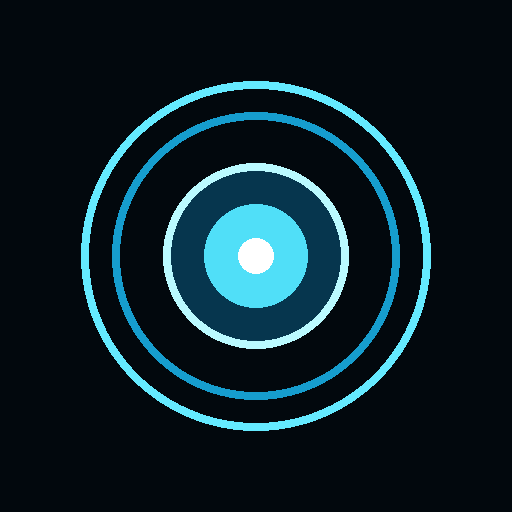
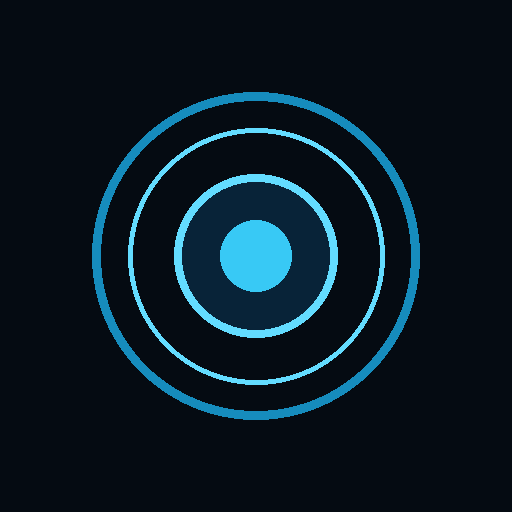
Add files via upload

Changed region(s): [[0.1562, 0.1562, 0.8438, 0.8438], [0.3125, 0.3125, 0.6875, 0.6875], [0.4688, 0.4688, 0.5312, 0.5312]]

diff --git a/index.html b/index.html
@@ -1,66 +1,13 @@
-<!doctype html>
-<html lang="de">
-<head>
-<meta charset="utf-8">
-<meta name="viewport" content="width=device-width,initial-scale=1,viewport-fit=cover">
-<meta name="theme-color" content="#02080d">
-<meta name="description" content="A.L.F.R.E.D. — persönliches futuristisches Assistenz-Interface">
-<link rel="manifest" href="manifest.webmanifest">
-<link rel="icon" href="icon.svg" type="image/svg+xml">
-<title>A.L.F.R.E.D.</title>
-<style>
-:root{--cyan:#65eaff;--blue:#169dce;--dim:#286477;--bg:#02080d;--panel:rgba(5,22,31,.82);--line:rgba(101,234,255,.25);--muted:#74a8b6}
-*{box-sizing:border-box}html{background:var(--bg)}body{margin:0;background:radial-gradient(ellipse at 50% 42%,#092431 0,#041019 36%,#02070b 75%);color:#d9faff;font-family:Inter,system-ui,Segoe UI,sans-serif;min-height:100vh;min-height:100dvh;overflow-x:hidden;padding-bottom:env(safe-area-inset-bottom)}
-body:before{content:"";position:fixed;inset:0;pointer-events:none;opacity:.15;background-image:linear-gradient(rgba(101,234,255,.12) 1px,transparent 1px),linear-gradient(90deg,rgba(101,234,255,.12) 1px,transparent 1px);background-size:36px 36px;mask-image:linear-gradient(transparent,#000 18%,#000 85%,transparent)}
-header{display:flex;justify-content:space-between;align-items:center;padding:calc(17px + env(safe-area-inset-top)) 18px 8px;letter-spacing:.2em;font-size:10px;color:var(--muted);position:relative}.brand{font-size:17px;color:var(--cyan);font-weight:750;letter-spacing:.25em;text-shadow:0 0 18px #1ab7d9}.status{display:flex;align-items:center;gap:8px}.dot{width:7px;height:7px;border-radius:50%;background:#58ffc2;box-shadow:0 0 12px #58ffc2}
-main{max-width:900px;margin:auto;padding:8px 15px 28px;position:relative}.hero{text-align:center}.eyebrow{font-size:9px;letter-spacing:.35em;color:#7ebdcb;margin:8px 0 0}.clock{font-size:clamp(34px,9vw,50px);font-weight:200;letter-spacing:.1em;margin:4px 0 0;color:#e2fbff}.date{font-size:10px;letter-spacing:.18em;color:var(--muted);text-transform:uppercase}
-.core-wrap{height:275px;display:grid;place-items:center;position:relative;margin:0 auto;max-width:400px}.core{width:205px;height:205px;border-radius:50%;position:relative;display:grid;place-items:center;filter:drop-shadow(0 0 25px rgba(45,213,255,.5));cursor:pointer;outline:none}.core:before{content:"";position:absolute;inset:0;border-radius:50%;border:1px solid rgba(101,234,255,.55);box-shadow:inset 0 0 30px rgba(26,183,217,.12),0 0 28px rgba(26,183,217,.18)}.core:after{content:"";position:absolute;inset:14px;border-radius:50%;border:2px dashed rgba(101,234,255,.65);animation:spin 22s linear infinite}.ring{position:absolute;border-radius:50%;border:1px solid rgba(101,234,255,.36)}.r1{inset:-13px;border-left-color:transparent;border-right-color:transparent;animation:spin 12s linear infinite}.r2{inset:-29px;border-top:2px solid var(--cyan);border-bottom:2px solid transparent;animation:spin 17s linear infinite reverse}.r3{inset:-42px;border:1px dotted rgba(101,234,255,.35);animation:spin 35s linear infinite}.arc{width:125px;height:125px;border-radius:50%;background:radial-gradient(circle,#bafaff 0 3%,#50dff8 9%,#0a789e 27%,#06364e 49%,rgba(2,15,25,.3) 70%);box-shadow:0 0 20px #37d8ff,0 0 55px rgba(25,176,224,.6),inset 0 0 28px #b4f9ff;position:relative;animation:pulse 3s ease-in-out infinite}.arc:before{content:"";position:absolute;inset:22px;border:2px solid rgba(196,250,255,.8);border-radius:50%;border-left-color:transparent;transform:rotate(35deg)}.arc:after{content:"";position:absolute;inset:39px;border:1px solid rgba(190,250,255,.7);border-radius:50%;border-bottom-color:transparent;transform:rotate(-30deg)}.core-label{position:absolute;bottom:-61px;text-align:center;font-size:9px;letter-spacing:.35em;color:var(--cyan);text-shadow:0 0 10px #22bfe5}
-@keyframes spin{to{transform:rotate(360deg)}}@keyframes pulse{0%,100%{transform:scale(.96);filter:brightness(.9)}50%{transform:scale(1.04);filter:brightness(1.3)}}
-.grid{display:grid;grid-template-columns:repeat(3,1fr);gap:9px;margin-top:5px}.panel{border:1px solid var(--line);background:linear-gradient(145deg,rgba(9,35,47,.72),rgba(2,12,19,.8));padding:12px;border-radius:7px;min-height:76px;box-shadow:inset 0 0 22px rgba(40,180,220,.035)}.panel small{display:block;font-size:8px;letter-spacing:.2em;color:var(--muted);text-transform:uppercase}.value{font-size:15px;margin-top:8px;color:#d9fbff}.sub{font-size:9px;color:#7db2c0;margin-top:3px}
-.controls{display:flex;justify-content:center;gap:8px;flex-wrap:wrap;margin:15px 0}.btn{background:rgba(8,34,47,.85);color:var(--cyan);border:1px solid rgba(101,234,255,.45);padding:11px 13px;border-radius:4px;letter-spacing:.1em;font-size:9px;text-transform:uppercase;cursor:pointer}.btn:active{background:#12465a}.btn.primary{background:rgba(24,144,178,.22);box-shadow:0 0 18px rgba(39,196,235,.12)}
-.chat{border:1px solid var(--line);border-radius:7px;background:var(--panel);padding:13px;margin-top:11px}.chat-head{display:flex;justify-content:space-between;gap:8px;font-size:9px;letter-spacing:.15em;color:var(--cyan);margin-bottom:9px}.messages{height:112px;overflow:auto;font-size:11px;color:#b6dce5;line-height:1.55}.msg{margin:5px 0}.inputrow{display:flex;gap:7px;margin-top:9px}.inputrow input{flex:1;min-width:0;background:#020b11;border:1px solid var(--line);border-radius:4px;color:#e3fbff;padding:12px;font-size:12px;outline:none}.hint{text-align:center;color:#537f8b;font-size:8px;line-height:1.6;margin:13px 5px}.boot{position:fixed;inset:0;background:#01060a;z-index:5;display:grid;place-items:center;transition:opacity .7s ease}.boot.hide{opacity:0;pointer-events:none}.boot-inner{text-align:center;color:var(--cyan);font:10px/2 monospace;letter-spacing:.2em}.bootbar{width:210px;height:2px;background:#12313b;margin:15px auto;overflow:hidden}.bootbar i{display:block;height:100%;width:0;background:var(--cyan);box-shadow:0 0 12px var(--cyan);animation:load 2s ease forwards}@keyframes load{to{width:100%}}
-.install{display:none}.install.show{display:inline-block}
-@media(max-width:520px){.brand{font-size:15px}.core-wrap{height:258px}.grid{grid-template-columns:repeat(2,1fr)}.panel:last-child{grid-column:span 2}.value{font-size:14px}}
-@media(min-width:700px){main{padding-top:18px}.core-wrap{height:300px}.grid{gap:12px}.panel{padding:16px}}
-</style>
-</head>
-<body>
-<div class="boot" id="boot"><div class="boot-inner"><div style="font-size:21px;font-weight:bold">A.L.F.R.E.D.</div><div>INITIALISIERE SYSTEMKERN</div><div class="bootbar"><i></i></div><div id="bootline">SICHERE VERBINDUNG WIRD HERGESTELLT...</div></div></div>
-<header><div class="brand">A.L.F.R.E.D.</div><div class="status"><span class="dot"></span><span id="systemstatus">SYSTEM ONLINE</span></div></header>
-<main>
-<section class="hero"><div class="eyebrow">PERSONAL ASSISTANT INTERFACE</div><div class="clock" id="clock">--:--:--</div><div class="date" id="date">DATUM WIRD GELADEN</div>
-<div class="core-wrap"><div class="core" id="core" role="button" tabindex="0" aria-label="Systemkern aktivieren"><div class="ring r1"></div><div class="ring r2"></div><div class="ring r3"></div><div class="arc"></div><div class="core-label" id="corelabel">KERN AKTIV</div></div></div></section>
-<div class="grid">
-<div class="panel"><small>Systemstatus</small><div class="value">ONLINE</div><div class="sub">Lokale Module bereit</div></div>
-<div class="panel"><small>Verbindung</small><div class="value" id="network">PRÜFE...</div><div class="sub">Netzwerkstatus</div></div>
-<div class="panel"><small>Batterie</small><div class="value" id="battery">—</div><div class="sub" id="charging">Gerätestatus</div></div>
-<div class="panel"><small>Wetter</small><div class="value" id="weather">—</div><div class="sub" id="weatherdetail">Standortfreigabe nötig</div></div>
-<div class="panel"><small>Sprachmodul</small><div class="value" id="voice">BEREIT</div><div class="sub">Sprachsteuerung</div></div>
-<div class="panel"><small>Systemzeit</small><div class="value" id="timezone">—</div><div class="sub">Lokale Zeitzone</div></div>
-</div>
-<div class="controls"><button class="btn primary" id="voicebtn">◉ Sprachsteuerung</button><button class="btn" id="soundbtn">♫ Sound: AUS</button><button class="btn" id="weatherbtn">⌖ Wetter laden</button><button class="btn install" id="installbtn">＋ App installieren</button></div>
-<section class="chat"><div class="chat-head"><span>ALFRED // KOMMUNIKATION</span><span>DEMO-KI</span></div><div class="messages" id="messages" aria-live="polite"><div class="msg">A.L.F.R.E.D.: Guten Tag. Meine Systeme sind einsatzbereit.</div><div class="msg">A.L.F.R.E.D.: Ich kann Uhrzeit, Datum und einfache Befehle offline beantworten.</div></div><div class="inputrow"><input id="chatinput" autocomplete="off" placeholder="Nachricht an A.L.F.R.E.D. ..."><button class="btn" id="send">SENDEN</button></div></section>
-<div class="hint">A.L.F.R.E.D. // BUILD 0.2 · OFFLINE-FÄHIGE OBERFLÄCHE<br>KI-CHAT IST NOCH NICHT MIT EINEM ONLINE-KI-MODELL VERBUNDEN.</div>
-</main>
-<script>
-const $=id=>document.getElementById(id);
-function tick(){const d=new Date();$('clock').textContent=d.toLocaleTimeString('de-DE');$('date').textContent=d.toLocaleDateString('de-DE',{weekday:'long',day:'2-digit',month:'long',year:'numeric'}).toUpperCase();$('timezone').textContent=(Intl.DateTimeFormat().resolvedOptions().timeZone||'LOKAL').split('/').pop().replaceAll('_',' ')}
-tick();setInterval(tick,1000);
-setTimeout(()=>{$('bootline').textContent='SYSTEMKERN ONLINE';setTimeout(()=>$('boot').classList.add('hide'),400)},2050);
-$('network').textContent=navigator.onLine?'ONLINE':'OFFLINE';addEventListener('online',()=>{$('network').textContent='ONLINE';$('systemstatus').textContent='SYSTEM ONLINE'});addEventListener('offline',()=>{$('network').textContent='OFFLINE';$('systemstatus').textContent='OFFLINE-MODUS'});
-if('getBattery'in navigator){navigator.getBattery().then(b=>{function upd(){$('battery').textContent=Math.round(b.level*100)+'%';$('charging').textContent=b.charging?'WIRD GELADEN':'AKKUBETRIEB'}upd();b.addEventListener('levelchange',upd);b.addEventListener('chargingchange',upd)}).catch(()=>{$('battery').textContent='NICHT VERFÜGBAR'})}else{$('battery').textContent='N/V'}
-let audioOn=false,ctx;
-function beep(freq=520,dur=.12){if(!audioOn)return;try{ctx=ctx||new(window.AudioContext||window.webkitAudioContext)();let o=ctx.createOscillator(),g=ctx.createGain();o.type='sine';o.frequency.value=freq;g.gain.setValueAtTime(.04,ctx.currentTime);g.gain.exponentialRampToValueAtTime(.001,ctx.currentTime+dur);o.connect(g);g.connect(ctx.destination);o.start();o.stop(ctx.currentTime+dur)}catch(e){}}
-$('soundbtn').onclick=()=>{audioOn=!audioOn;$('soundbtn').textContent='♫ Sound: '+(audioOn?'AN':'AUS');if(audioOn){beep(660,.18);setTimeout(()=>beep(880,.2),140)}};
-function coreAction(){beep(740,.2);$('corelabel').textContent='KERN SCANNT';setTimeout(()=>$('corelabel').textContent='KERN AKTIV',1200)}$('core').onclick=coreAction;$('core').onkeydown=e=>{if(e.key==='Enter'||e.key===' '){e.preventDefault();coreAction()}};
-async function loadWeather(){if(!navigator.geolocation){$('weatherdetail').textContent='Standort nicht verfügbar';return}$('weather').textContent='SUCHE...';navigator.geolocation.getCurrentPosition(async p=>{try{let u=`https://api.open-meteo.com/v1/forecast?latitude=${p.coords.latitude}&longitude=${p.coords.longitude}&current=temperature_2m,weather_code&timezone=auto`;let r=await fetch(u),j=await r.json();$('weather').textContent=Math.round(j.current.temperature_2m)+'°C';$('weatherdetail').textContent='Aktuelle Temperatur · Standort lokal'}catch(e){$('weather').textContent='FEHLER';$('weatherdetail').textContent='Wetterdienst nicht erreichbar'}},()=>{$('weather').textContent='—';$('weatherdetail').textContent='Standortfreigabe abgelehnt'},{timeout:10000})}$('weatherbtn').onclick=loadWeather;
-const SR=window.SpeechRecognition||window.webkitSpeechRecognition;
-$('voicebtn').onclick=()=>{if(!SR){$('voice').textContent='NICHT VERFÜGBAR';say('Sprachsteuerung wird von diesem Browser nicht unterstützt.');return}let rec=new SR();rec.lang='de-DE';rec.interimResults=false;$('voice').textContent='HÖRE ZU...';beep(620,.1);rec.onresult=e=>{$('chatinput').value=e.results[0][0].transcript;$('voice').textContent='BEREIT';sendMessage()};rec.onerror=()=>{$('voice').textContent='BEREIT'};rec.onend=()=>{if($('voice').textContent==='HÖRE ZU...')$('voice').textContent='BEREIT'};try{rec.start()}catch(e){$('voice').textContent='BEREIT'}};
-function say(t){if('speechSynthesis'in window){let u=new SpeechSynthesisUtterance(t);u.lang='de-DE';speechSynthesis.speak(u)}}
-function escapeHtml(s){return s.replace(/[&<>"']/g,c=>({'&':'&amp;','<':'&lt;','>':'&gt;','"':'&quot;',"'":'&#39;'}[c]))}
-function sendMessage(){let t=$('chatinput').value.trim();if(!t)return;let m=$('messages');m.innerHTML+=`<div class="msg">DU: ${escapeHtml(t)}</div>`;let l=t.toLowerCase(),reply='Befehl empfangen. Für freie intelligente Gespräche muss das Online-KI-Modul noch eingerichtet werden.';if(/hallo|guten tag|hi|hey/.test(l))reply='Guten Tag. A.L.F.R.E.D. ist bereit.';else if(/uhrzeit|wie spät/.test(l))reply='Es ist '+new Date().toLocaleTimeString('de-DE')+'.';else if(/datum|welcher tag/.test(l))reply='Heute ist '+new Date().toLocaleDateString('de-DE')+'.';else if(/status|system/.test(l))reply='Alle lokalen Oberflächenmodule sind einsatzbereit. Netzwerk: '+(navigator.onLine?'online':'offline')+'.';else if(/wetter/.test(l)){loadWeather();reply='Ich starte die lokale Wetterabfrage. Bitte erlaube den Standortzugriff.'}m.innerHTML+=`<div class="msg">A.L.F.R.E.D.: ${reply}</div>`;m.scrollTop=m.scrollHeight;$('chatinput').value='';say(reply)}
-$('send').onclick=sendMessage;$('chatinput').addEventListener('keydown',e=>{if(e.key==='Enter')sendMessage()});
-let installPrompt;$('installbtn').addEventListener('click',async()=>{if(!installPrompt)return;installPrompt.prompt();await installPrompt.userChoice;installPrompt=null;$('installbtn').classList.remove('show')});window.addEventListener('beforeinstallprompt',e=>{e.preventDefault();installPrompt=e;$('installbtn').classList.add('show')});
-if('serviceWorker'in navigator && location.protocol.startsWith('http'))window.addEventListener('load',()=>navigator.serviceWorker.register('./sw.js').catch(()=>{}));
-</script>
-</body></html>
+<!doctype html><html lang="de"><head><meta charset="utf-8"><meta name="viewport" content="width=device-width,initial-scale=1,viewport-fit=cover"><meta name="theme-color" content="#050b12"><link rel="manifest" href="./manifest.webmanifest"><link rel="icon" href="./icon.svg"><title>A.L.F.R.E.D.</title><style>
+:root{--c:#63dcff;--m:#7595a8;--l:rgba(99,220,255,.2)}*{box-sizing:border-box}body{margin:0;min-height:100vh;background:radial-gradient(ellipse at 50% 18%,#102d40,#07131f 40%,#03070c 80%);color:#e7f8ff;font-family:system-ui,sans-serif;letter-spacing:.03em}body:before{content:"";position:fixed;inset:0;pointer-events:none;opacity:.1;background-image:linear-gradient(var(--l) 1px,transparent 1px),linear-gradient(90deg,var(--l) 1px,transparent 1px);background-size:42px 42px}header{display:flex;justify-content:space-between;padding:18px 20px;border-bottom:1px solid var(--l);font-size:13px;letter-spacing:.2em}.brand{font-weight:800}.brand small{display:block;font-size:9px;color:var(--m);margin-top:4px}.status{font-size:10px;color:#8bf0c2}.dot{display:inline-block;width:7px;height:7px;background:#64edb3;border-radius:50%;margin-right:7px;box-shadow:0 0 12px #64edb3}main{max-width:850px;margin:auto;padding:20px 16px 40px;position:relative}.hero{text-align:center;padding-top:14px}.eyebrow,.sub,.date,.section-title{font-size:10px;letter-spacing:.25em;color:var(--c)}h1{font-size:clamp(30px,8vw,52px);letter-spacing:.2em;margin:8px 0;text-shadow:0 0 24px #168cbd}.core-wrap{height:250px;display:grid;place-items:center;position:relative}.core{width:160px;height:160px;border-radius:50%;display:grid;place-items:center;background:radial-gradient(circle,#d5fbff 0 3%,#38c9f5 6%,#0877a7 18%,#082338 40%,#06101b 65%);box-shadow:0 0 25px #32caff,0 0 70px #168cbd66,inset 0 0 30px #61dcff;animation:pulse 3s infinite}.core:before,.core:after{content:"";position:absolute;width:205px;height:205px;border:1px solid #63dcff88;border-radius:50%;animation:spin 18s linear infinite}.core:after{width:240px;height:240px;border-style:dashed;animation-direction:reverse}.core span{font-size:10px;letter-spacing:.2em}@keyframes pulse{50%{filter:brightness(1.3);transform:scale(1.04)}}@keyframes spin{to{transform:rotate(360deg)}}.greeting{font-size:14px}.greeting b{color:var(--c)}.clock{font-size:30px;font-weight:300;letter-spacing:.12em;margin-top:10px}.date{color:var(--m);margin-top:5px}.grid{display:grid;grid-template-columns:repeat(4,1fr);gap:9px;margin:22px 0}.tile,.panel{background:linear-gradient(145deg,#0c2231dd,#050f18dd);border:1px solid var(--l);border-radius:13px;padding:13px}.tile label{display:block;font-size:9px;color:var(--m);margin-bottom:8px}.tile strong{font-size:14px;font-weight:500}.section-title{margin:0 0 12px}.chatlog{height:175px;overflow:auto;display:flex;flex-direction:column;gap:9px;margin-bottom:12px}.msg{max-width:88%;font-size:13px;line-height:1.5;padding:10px 12px;border-radius:10px;background:#16435866;border:1px solid #63dcff22}.msg.user{align-self:flex-end;background:#0e527266}.msg small{display:block;color:var(--c);font-size:9px;margin-bottom:4px}.composer{display:flex;gap:8px}.composer input{min-width:0;flex:1;background:#06131e;border:1px solid var(--l);border-radius:9px;color:white;padding:13px;font:inherit;font-size:13px}.btn{border:1px solid #63dcff66;background:linear-gradient(135deg,#0d4964,#092537);color:#c9f5ff;border-radius:9px;padding:10px 13px;font-weight:600}.actions{display:flex;gap:8px;flex-wrap:wrap;margin-top:10px}.secondary{background:#091722;color:#9bb6c5;font-size:11px}footer{text-align:center;color:#547386;font-size:9px;letter-spacing:.15em;padding:24px 0}@media(max-width:520px){.grid{grid-template-columns:repeat(2,1fr)}}
+</style></head><body><header><div class="brand">A.L.F.R.E.D.<small>PERSONAL ASSISTANT SYSTEM</small></div><div class="status"><i class="dot"></i>SYSTEM ONLINE</div></header><main><section class="hero"><div class="eyebrow">ADVANCED LOGICAL FRAMEWORK</div><h1>A.L.F.R.E.D.</h1><div class="sub">AT YOUR SERVICE, SIR.</div><div class="core-wrap"><div class="core" id="core"><span id="coreState">STANDBY</span></div></div><p class="greeting">Good day, Sir. <b>How may I assist you?</b></p><div class="clock" id="clock">--:--:--</div><div class="date" id="date">INITIALISING</div></section><section class="grid"><div class="tile"><label>LOCAL WEATHER</label><strong id="weather">Nicht geladen</strong></div><div class="tile"><label>BATTERY</label><strong id="battery">--</strong></div><div class="tile"><label>CONNECTION</label><strong id="network">--</strong></div><div class="tile"><label>VOICE</label><strong id="voiceStatus">Bereit</strong></div></section><section class="panel"><h2 class="section-title">COMMUNICATION CHANNEL</h2><div class="chatlog" id="chatlog"><div class="msg"><small>A.L.F.R.E.D.</small>Guten Tag, Sir. Alle lokalen Systeme sind bereit. Wie kann ich Ihnen behilflich sein?</div></div><div class="composer"><input id="prompt" placeholder="Nachricht an A.L.F.R.E.D. ..."><button class="btn" id="send">Senden</button></div><div class="actions"><button class="btn secondary" id="listen">🎙 Sprechen</button><button class="btn secondary" id="speak">🔊 Stimme testen</button><button class="btn secondary" id="weatherBtn">☁ Wetter laden</button></div></section><footer>ALFRED SYSTEMS · SECURE LOCAL INTERFACE · VERSION 1.0</footer></main><script>
+const $=x=>document.getElementById(x);function tick(){let d=new Date();$('clock').textContent=d.toLocaleTimeString('de-DE');$('date').textContent=d.toLocaleDateString('de-DE',{weekday:'long',day:'2-digit',month:'long',year:'numeric'}).toUpperCase()}tick();setInterval(tick,1000);
+if(navigator.getBattery)navigator.getBattery().then(b=>{let f=()=>$('battery').textContent=Math.round(b.level*100)+'%'+(b.charging?' ⚡':'');f();b.addEventListener('levelchange',f);b.addEventListener('chargingchange',f)}).catch(()=>$('battery').textContent='Nicht verfügbar');else $('battery').textContent='Nicht unterstützt';function net(){$('network').textContent=navigator.onLine?'Verbunden':'Offline'}net();addEventListener('online',net);addEventListener('offline',net);
+function add(t,w='alfred'){let d=document.createElement('div');d.className='msg '+(w==='user'?'user':'');let s=document.createElement('small');s.textContent=w==='user'?'SIR':'A.L.F.R.E.D.';let p=document.createElement('span');p.textContent=t;d.append(s,p);$('chatlog').append(d);$('chatlog').scrollTop=9999}
+function answer(q){let s=q.toLowerCase();if(/hallo|guten tag|hi\b/.test(s))return'Guten Tag, Sir. Es ist mir eine Freude, Ihnen behilflich zu sein.';if(/uhrzeit|wie spät|uhr/.test(s))return'Es ist '+new Date().toLocaleTimeString('de-DE')+', Sir.';if(/datum|welcher tag|heute/.test(s))return'Heute ist '+new Date().toLocaleDateString('de-DE',{weekday:'long',day:'numeric',month:'long',year:'numeric'})+', Sir.';if(/akku|batterie/.test(s))return'Der aktuelle Akkustand lautet '+$('battery').textContent+', Sir.';if(/wetter/.test(s))return'Die Wetteranzeige kann ich nach Standortfreigabe aktualisieren, Sir.';return'Verstanden, Sir. Der lokale Demonstrationsmodus ist aktiv. Für freie, intelligente Gespräche muss ich noch sicher mit einem KI-Dienst verbunden werden.'}
+function say(t){if(!('speechSynthesis'in window)){add('Sprachausgabe nicht unterstützt.');return}speechSynthesis.cancel();let u=new SpeechSynthesisUtterance(t);u.lang='de-DE';u.rate=.9;u.pitch=.82;let v=speechSynthesis.getVoices();u.voice=v.find(x=>x.lang==='de-DE'&&/male|markus|conrad|stefan/i.test(x.name))||v.find(x=>x.lang==='de-DE')||null;speechSynthesis.speak(u)}
+function send(){let q=$('prompt').value.trim();if(!q)return;$('prompt').value='';add(q,'user');$('coreState').textContent='PROCESSING';setTimeout(()=>{let a=answer(q);add(a);say(a);$('coreState').textContent='STANDBY'},300)}$('send').onclick=send;$('prompt').onkeydown=e=>{if(e.key==='Enter')send()};$('speak').onclick=()=>say('Guten Tag, Sir. A.L.F.R.E.D. ist zu Ihren Diensten.');
+let SR=window.SpeechRecognition||window.webkitSpeechRecognition;$('listen').onclick=()=>{if(!SR){add('Spracheingabe wird hier nicht unterstützt. Bitte Chrome verwenden.');return}let r=new SR();r.lang='de-DE';r.onstart=()=>{$('voiceStatus').textContent='Hört zu';$('coreState').textContent='LISTENING'};r.onend=()=>{$('voiceStatus').textContent='Bereit';$('coreState').textContent='STANDBY'};r.onerror=()=>add('Mikrofon nicht verfügbar oder Berechtigung fehlt.');r.onresult=e=>{$('prompt').value=e.results[0][0].transcript;send()};r.start()};
+$('weatherBtn').onclick=()=>{if(!navigator.geolocation){$('weather').textContent='Nicht verfügbar';return}$('weather').textContent='Lade ...';navigator.geolocation.getCurrentPosition(async p=>{try{let u=`https://api.open-meteo.com/v1/forecast?latitude=${p.coords.latitude}&longitude=${p.coords.longitude}&current=temperature_2m&timezone=auto`;let d=await fetch(u).then(r=>r.json());$('weather').textContent=d.current.temperature_2m+' °C'}catch(e){$('weather').textContent='Nicht erreichbar'}},()=>$('weather').textContent='Standort verweigert')};
+if('serviceWorker'in navigator)addEventListener('load',()=>navigator.serviceWorker.register('./sw.js').catch(()=>{}));
+</script></body></html>

diff --git a/sw.js b/sw.js
@@ -1,12 +1,1 @@
-const CACHE='alfred-shell-v2';
-const CORE=['./','./index.html','./manifest.webmanifest','./icon.svg','./icon-192.png','./icon-512.png'];
-self.addEventListener('install',event=>event.waitUntil(caches.open(CACHE).then(c=>c.addAll(CORE)).then(()=>self.skipWaiting())));
-self.addEventListener('activate',event=>event.waitUntil(caches.keys().then(keys=>Promise.all(keys.filter(k=>k!==CACHE).map(k=>caches.delete(k)))).then(()=>self.clients.claim())));
-self.addEventListener('fetch',event=>{
- const u=new URL(event.request.url);
- if(event.request.method!=='GET'||u.origin!==location.origin)return;
- event.respondWith(caches.match(event.request).then(cached=>cached||fetch(event.request).then(response=>{
-  if(response.ok){const copy=response.clone();caches.open(CACHE).then(c=>c.put(event.request,copy));}
-  return response;
- }).catch(()=>caches.match('./index.html'))));
-});
+const C='alfred-v1-shell';const A=['./','./index.html','./manifest.webmanifest','./icon.svg','./icon-192.png','./icon-512.png'];self.addEventListener('install',e=>e.waitUntil(caches.open(C).then(c=>c.addAll(A))));self.addEventListener('activate',e=>e.waitUntil(caches.keys().then(k=>Promise.all(k.filter(x=>x!==C).map(x=>caches.delete(x))))));self.addEventListener('fetch',e=>{if(e.request.method!=='GET')return;e.respondWith(caches.match(e.request).then(r=>r||fetch(e.request).catch(()=>caches.match('./index.html'))))});

diff --git a/README.md b/README.md
@@ -1,28 +1,7 @@
-# A.L.F.R.E.D. — Android PWA 0.2
+# A.L.F.R.E.D. v1.0
 
-## Installation on Android
-1. Upload the contents of this folder to a GitHub repository.
-2. In GitHub open **Settings → Pages**.
-3. Under **Build and deployment**, choose **Deploy from a branch**.
-4. Select `main` and `/ (root)`, then Save.
-5. Wait for GitHub Pages to publish. Open the shown `https://...github.io/...` address in Chrome on Android.
-6. Chrome menu `⋮` → **Install app** or **Add to Home screen**.
-7. Launch A.L.F.R.E.D. from the new home-screen icon.
+Upload all files in this folder to the root of your GitHub repository and keep GitHub Pages set to `main` / `/ (root)`.
 
-## Features
-- Animated cyan reactor HUD and startup sequence
-- Local clock/date/timezone
-- Online/offline status
-- Battery indicator when supported by browser
-- Location-based weather through Open-Meteo (permission + internet needed)
-- Browser speech recognition where supported
-- Speech synthesis and generated UI beeps
-- Offline app shell and cached interface
-- Demo chat with local commands (time/date/status/weather)
+Features: responsive cyan HUD, animated core, clock/date, network and battery indicators where supported, weather via Open-Meteo/geolocation, browser speech recognition where supported, Android/browser text-to-speech, local demo chat, PWA manifest and service worker.
 
-## Important limitations
-- This is an installable web app (PWA), not an APK.
-- Browser support for speech recognition and battery status varies by Android browser/device.
-- Weather needs internet and location permission.
-- Chat is not yet connected to an AI model. Real AI requires a backend service and API key stored server-side. Never put an API key into `index.html` or a public GitHub repository.
-- The first page visit needs internet; after it is cached, the interface can open offline.
+IMPORTANT: Chat is a local demonstration, not a connected LLM. Real AI requires a secure backend. Never place API keys in frontend code or a public GitHub repository. Voice options depend on voices installed on the Android device and browser support.
